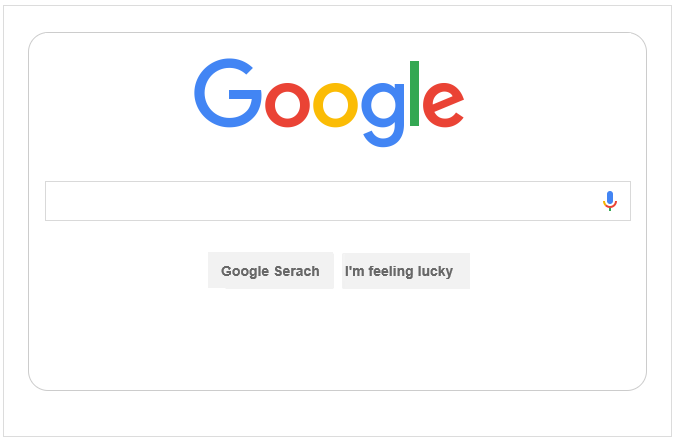
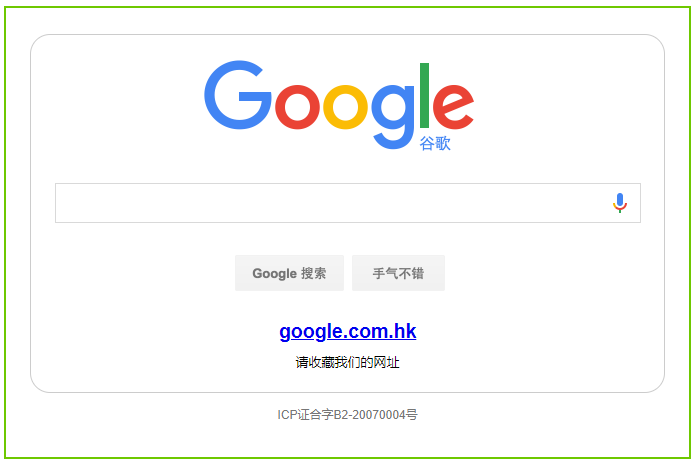
1

diff --git a/docs/2d-visualization/controls/display/rich-text.md b/docs/2d-visualization/controls/display/rich-text.md
@@ -1,49 +1,47 @@
-# Rich Text
+# 富文本
 
-Rich Text controls allow you to apply rich styles, formatting and multimedia elements to text. Compared to plain text, rich text can include font styles, colors, bold, italic, underline and other text styles, as well as insert tables, links and more.
+富文本控件允许您在文本中应用丰富的样式、格式和多媒体元素。与纯文本相比，富文本可以包含字体样式、颜色、加粗、斜体、下划线等文本样式，同时还可以插入表格、链接等。
 
-VC Hub's built-in rich text editor supports two editing modes: Markdown and WYSIWYG(what you see is what you get).
+WAGO VC Hub内置的富文本编辑器支持两种编辑模式：Markdown、所见即所得。
 
-**Markdown Mode**
+#### Markdown 模式
 
-- Markdown is a lightweight markup language for formatting plain text and adding structure and style.
-- In Markdown mode, you can use simple symbols and tags to represent different text styles, such as headings, bold, italics, links, and so on.
-- The editor converts the Markdown syntax into rich text format to display the desired styles when previewing or publishing.
-- Markdown mode is suitable for users who are familiar with Markdown syntax and provides more control and flexibility.
+- Markdown 是一种轻量级的标记语言，用于格式化纯文本并添加结构和样式。
+- 在 Markdown 模式下，你可以使用简单的符号和标记来表示不同的文本样式，例如标题、粗体、斜体、链接等。
+- 编辑器会将 Markdown 语法转换为富文本格式，以便在预览或发布时显示所期望的样式。
+- Markdown 模式适合熟悉 Markdown 语法的用户，它提供了更多的控制和灵活性。
 
-**WYSIWYG Mode**
+#### 所见即所得模式
 
-- WYSIWYG mode allows you to see the final formatting directly in the editor, just as you would in a regular text processing program.
-- In WYSIWYG mode, you can apply different styles, such as fonts, sizes, colors, alignments, etc. via toolbars, shortcuts or right-click menus.
-- WYSIWYG mode is more intuitive and easier to use, and there's no need to memorize or understand specific markup syntax.
+- 所见即所得模式允许你直接在编辑器中看到最终的格式化效果，就像在一个常规的文本处理软件中一样。
+- 在所见即所得模式下，你可以通过工具栏、快捷键或右键菜单来应用不同的样式，例如字体、大小、颜色、对齐方式等。
+- 所见即所得模式更加直观和易于使用，无需记忆或了解特定的标记语法。
 
-Whether you choose Markdown or WYSIWYG mode depends on your personal preferences and usage scenarios. If you are used to Markdown syntax, or need more control and flexibility, then Markdown mode may be better for you. If you prefer to edit text intuitively and see results instantly, then WYSIWYG mode may be more suitable for you.                           
+选择 Markdown 模式还是所见即所得模式取决于您的个人偏好和使用场景。如果您习惯使用 Markdown 语法，或者需要更多的控制和灵活性，那么 Markdown 模式可能更适合您。如果您更喜欢直观地编辑文本并即时看到结果，那么所见即所得模式可能更适合您。
 
-**Properties**
+**属性**
 
-| **Name**         | **Description**   |
-|------------------|---------------------|
-| Name             | The name of this control. |
-| X                | Distance of the left side of the control from the left side of the canvas.  |
-| Y                | The distance from the top of the control to the top of the canvas.  |
-| W                | Width of the control.    |
-| H                | The height of the control.   |
-| Background       | The background color of the rich text control. |
-| Text             | Set the content and format of the text. Click the Edit button to bring up the Rich Text Editor, which allows you to edit the text within the editor.  The editing window is as follows:  <br>![alt text](31.png)  <br> ![alt text](32.png) Title   <br>![alt text](33.png) Bold  <br>![alt text](34.png) Italic <br>![alt text](35.png) Set the color of the text <br>![alt text](36.png) Show strikethrough on selected text <br>![alt text](37.png) Insert a dividing line between two lines of text <br>![alt text](38.png) Highlighting quoted content <br>![alt text](39.png) Unordered list. Each piece of content is identified by a symbol or specific tag, rather than being numbered sequentially.   Unordered lists serve to highlight the equality between items and provide an easy way to list related content.   <br>Example:   <br>![alt text](40.png) <br>![alt text](41.png)Ordered list. Used to present a sequential content format where each item is labeled with a number and numbered in the order in which it appears in the list. The purpose of an ordered list is to make the relationships between items clearer and to provide structured and organized information.   <br>Example:<br> ![alt text](42.png) <br>![alt text](43.png) To-Do List. A format used to record and organize pending tasks. <br>Example:  <br>![alt text](44.png) <br>![alt text](45.png)Indent. Select the text you want to indent, then use the Tab key or the Indent button to move it to the right. Indentation works when Unorganized, Ordered, or To-Do Lists are enabled.  <br>![alt text](46.png) Reduce Indent. Select the text you want to reduce the indentation, then use the Shift+Tab keys or the Reduce Indent button to move it back to its original position. Reduce Indentation works when Unordered, Ordered, or To-Do List is enabled.  <br>![alt text](47.png) <br>![alt text](48.png)Insert URL  <br>![alt text](49.png) Insert code for short code snippets.  <br>![alt text](50.png) Insert code, suitable for inserting longer code snippets.|
-| Border Color     | The border color of the rich text.   |
-| Border Thickness | The border thickness of the rich text.   |
+| **名称** | **描述**  |
+|:----------|:-----------------------------|
+| 名字     | 此控件的名称。 |
+| X        | 控件左侧距画布左侧的距离，单位px。 |
+| Y        | 控件顶部距画布顶部的距离，单位px。   |
+| W        | 控件的宽度，单位px。 |
+| H        | 控件的高度，单位px。  |
+| 背景     | 富文本控件的背景色。  |
+| 文本     | 设置文本的内容和格式。点击编辑按钮，弹出富文本编辑器，可以在编辑器内对文本进行编辑。  编辑窗口如下：  <br>![alt text](31.png)   <br>![alt text](32.png) 标题  <br>![alt text](33.png) 字体加粗  <br>![alt text](34.png) 字体倾斜 <br>![alt text](35.png) 设置文字的颜色 <br>![alt text](36.png) 在选中的文本上显示删除线 <br>![alt text](37.png) 在两行文本之间插入分割线  <br>![alt text](38.png) 突出引用的内容  <br>![alt text](39.png) 无序列表。每个内容都以符号或特定的标记进行标识，而不是按照顺序编号。无序列表的作用是突出项目之间的平等性，并提供一个简单的方式来列举相关的内容。<br>例如：  <br>![alt text](40.png) <br>![alt text](41.png) 有序列表。用于呈现按顺序排列的内容格式，每个项目都以数字作为标记，并按照其在列表中的顺序进行编号。有序列表的作用是使项目之间的关系更清晰，并提供结构化和有序的信息。<br>例如：  <br>![alt text](42.png) <br>![alt text](43.png) 待办列表。用于记录和组织待完成任务的格式。<br>例如：  <br>![alt text](44.png) <br>![alt text](45.png) 缩进。选中要缩进的文本，然后使用Tab键或缩进按钮，将其向右移动。在启用了无序、有序或待办列表的情况下，缩进功能才生效。 <br>![alt text](46.png) 减少缩进。选中要减少缩进的文本，然后使用Shift+Tab键或减少缩进按钮，将其移回原来的位置。在启用了无序、有序或待办列表的情况下，减少缩进功能才生效。  <br>![alt text](47.png) 插入表格  <br>![alt text](48.png) 插入URL  <br> ![alt text](49.png) 插入代码，适用于简短的代码片段。<br>![alt text](50.png)插入代码，适用于插入较长的代码片段。  |
+| 边框颜色 | 富文本的边框颜色。  |
+| 边框粗细 | 富文本的边框粗细。 |
 
-**Note:** How to exit the code mode: in Markdown mode, press enter outside the formatting; in WYSIWYG mode, press ctrl + enter.
+**说明**：如何退出代码模式：在 Markdown 模式下，在格式外按回车即可； 在WYSIWYG 模式下，按ctrl+回车
 
-**Event**
+**动作**
 
-Allows you to perform a specific event based on certain conditions. See the**2D Visualization-> Event** page for a complete description of the various events.
+允许您基于某种条件执行特定的动作。请参阅“[动作](../../event/index.md)”页上各种动作的完整描述。
 
-Example
+**示例**
 
-Displaying information about a device via rich text.
+通过富文本，显示设备的相关信息。
 
 ![alt text](51.png)
-
-
 

diff --git a/docs/2d-visualization/controls/display/iframe.md b/docs/2d-visualization/controls/display/iframe.md
@@ -1,36 +1,33 @@
 # IFrame
 
-The IFrame control is used to embed another web page in the current web page to render the content of the URL page.
+IFrame控件用于在当前网页中嵌入另一个网页，进行网址页面内容的呈现。
 
 ![alt text](28.png)
 
+**属性**
 
+| **名称** | **描述**  |
+|----------|-------------------|
+| 名字     | 此控件的名称。|
+| X        | 控件左侧距画布左侧的距离，单位px。  |
+| Y        | 控件顶部距画布顶部的距离，单位px。 |
+| W        | 控件的宽度，单位px。 |
+| H        | 控件的高度，单位px。|
+| Iframe   | 设置Iframe内嵌的网址。可以点击绑定按钮绑定相关URL地址，或者直接在输入框中填写URL地址。  ![alt text](29.png) |
+| 边框     | 设置边框色和边框粗细。|
 
-**Properties**
+**动作**
 
-| **Name** | **Description**   |
-|----------|---------|
-| Name     | The name of this control.|
-| X        | The distance between the left side of the control and the left side of the canvas. |
-| Y        | The distance between the top of the control and the top of the canvas.  |
-| W        | The width of the control. |
-| H        | The height of the control. |
-| Iframe   | Set the URL embedded in the Iframe. You can click the bind button to bind the relevant URL address, or directly fill in the URL address in the input box.   <br>![alt text](29.png)|
-| Border   | Set the border color and border thickness. |
+允许您基于某种条件执行特定的动作。请参阅“[动作](../../event/index.md)”页上各种动作的完整描述。
 
-**Event**
+**示例**
 
-Allows you to perform specific events based on certain conditions. See the full description of each event on the **2D Visualization-> Event** page.
-
-**Example**
-
-Through IFrame, open the google page.
+通过IFrame，打开google页面。
 
 ![alt text](30.png)
 
-| **Property**     | **Value**                                        |
-|------------------|--------------------------------------------------|
-| Border color     | dcdcdc                                           |
-| Border thickness | 2                                                |
-| URL              | [https://www.google.cn/](https://www.google.cn/) |
-
+| **属性** | **值**                                           |
+|:----------|:--------------------------------------------------|
+| 边框色   | 6ec800                                           |
+| 边框粗细 | 2                                                |
+| 链接地址 | [https://www.google.cn/](https://www.google.cn/) |
